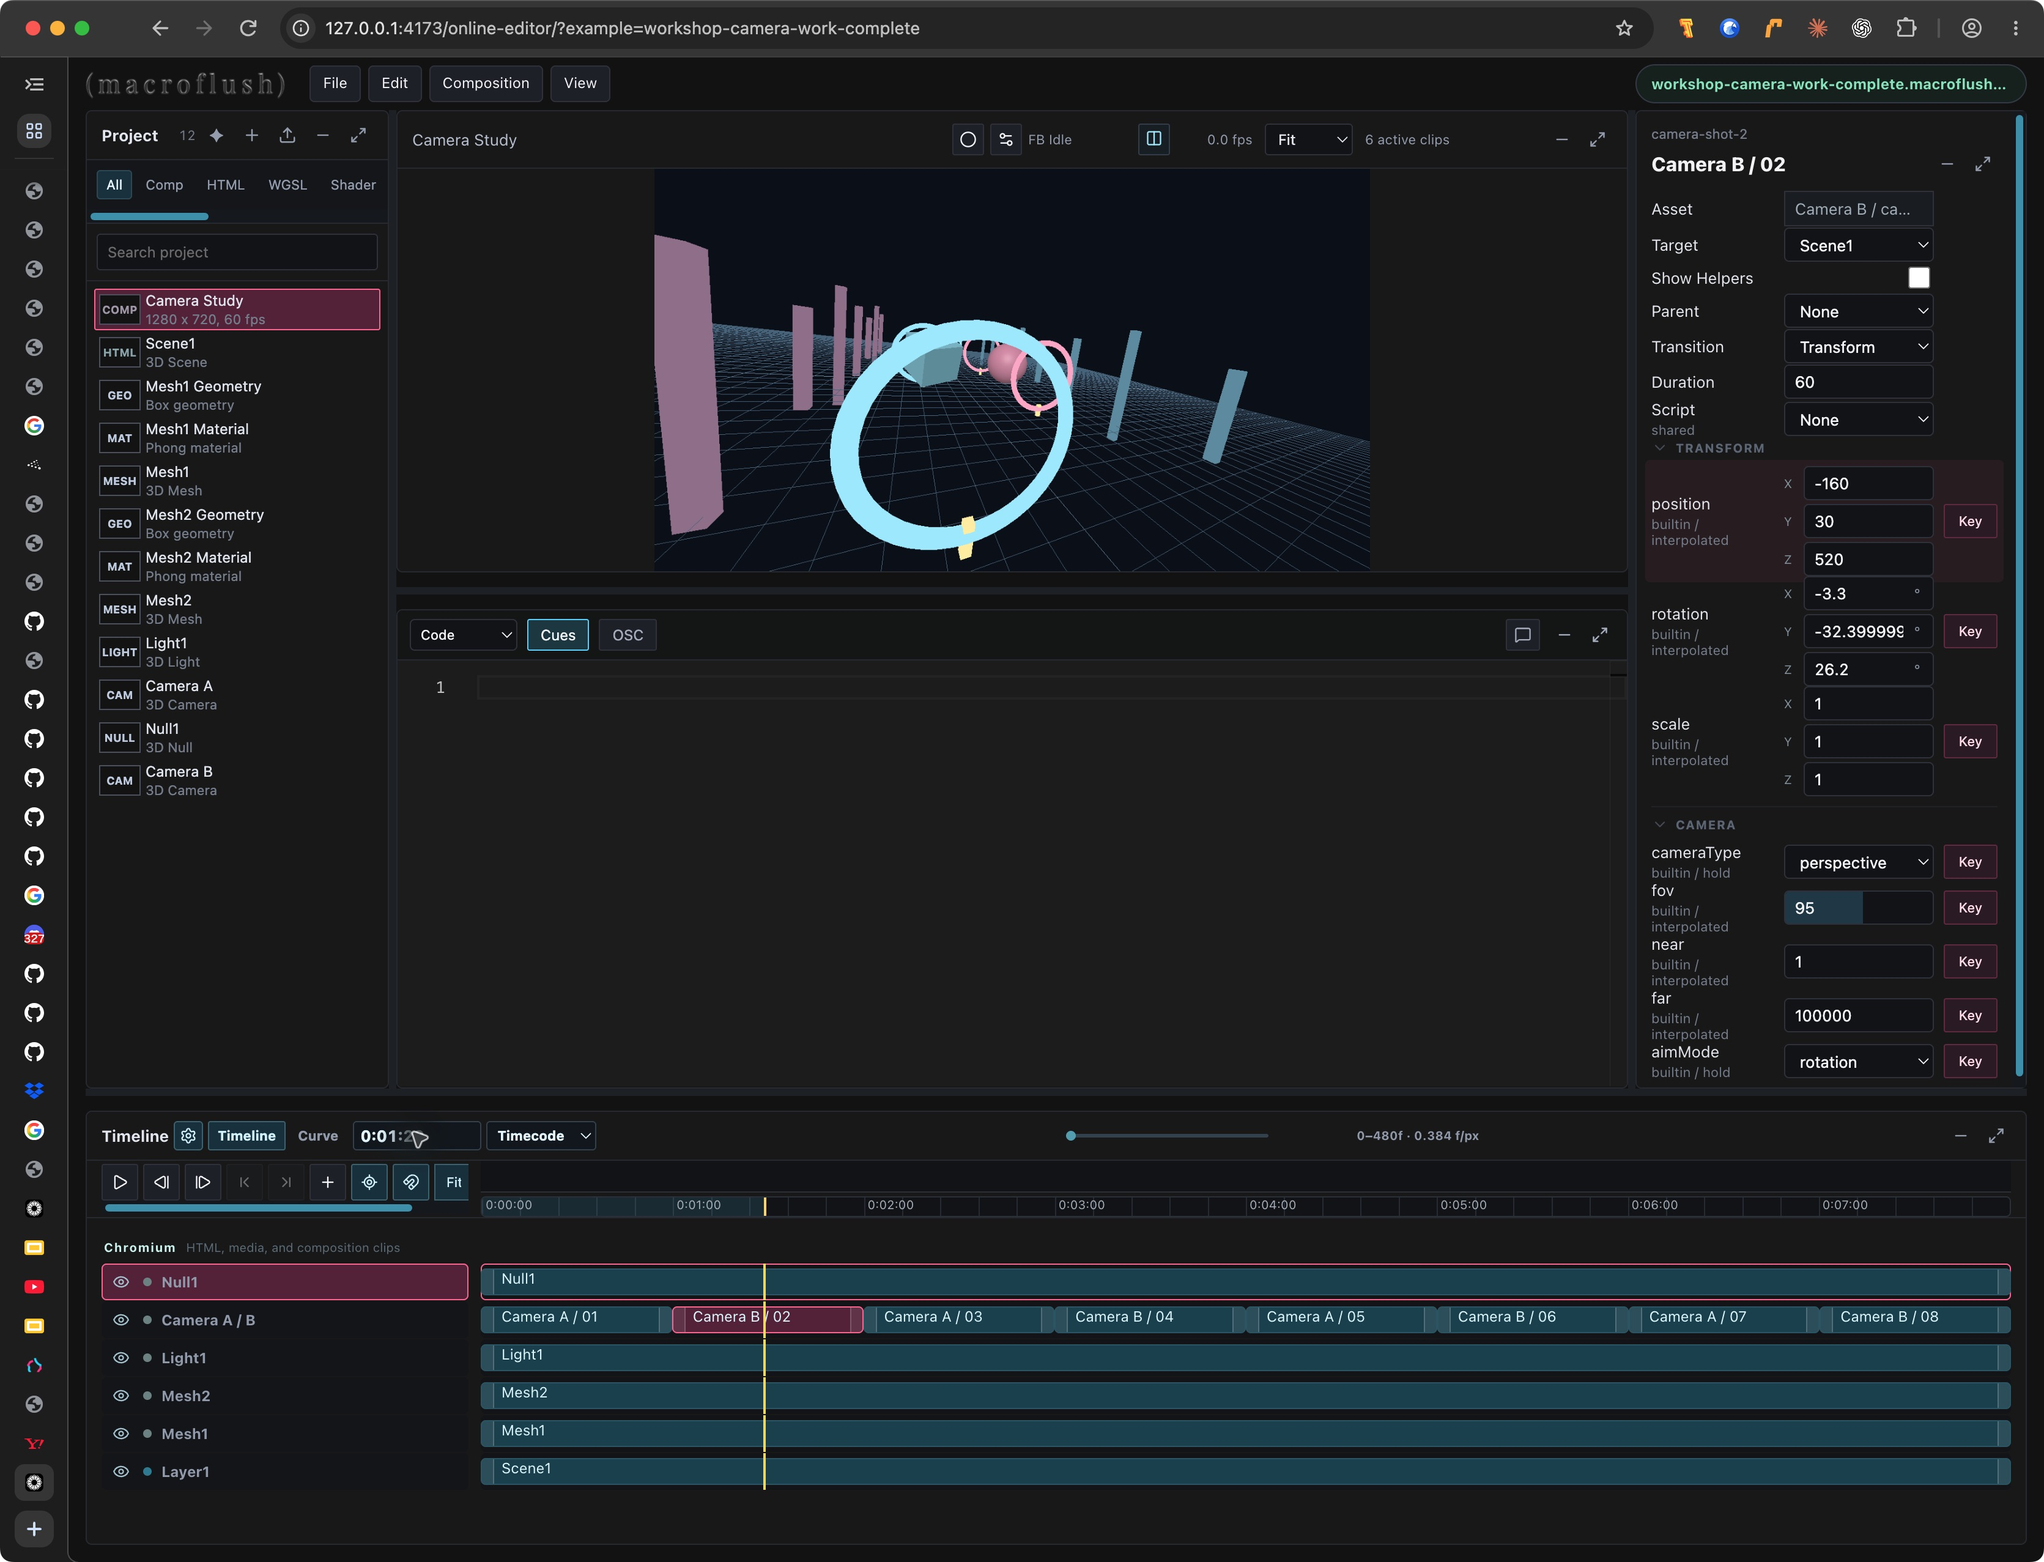
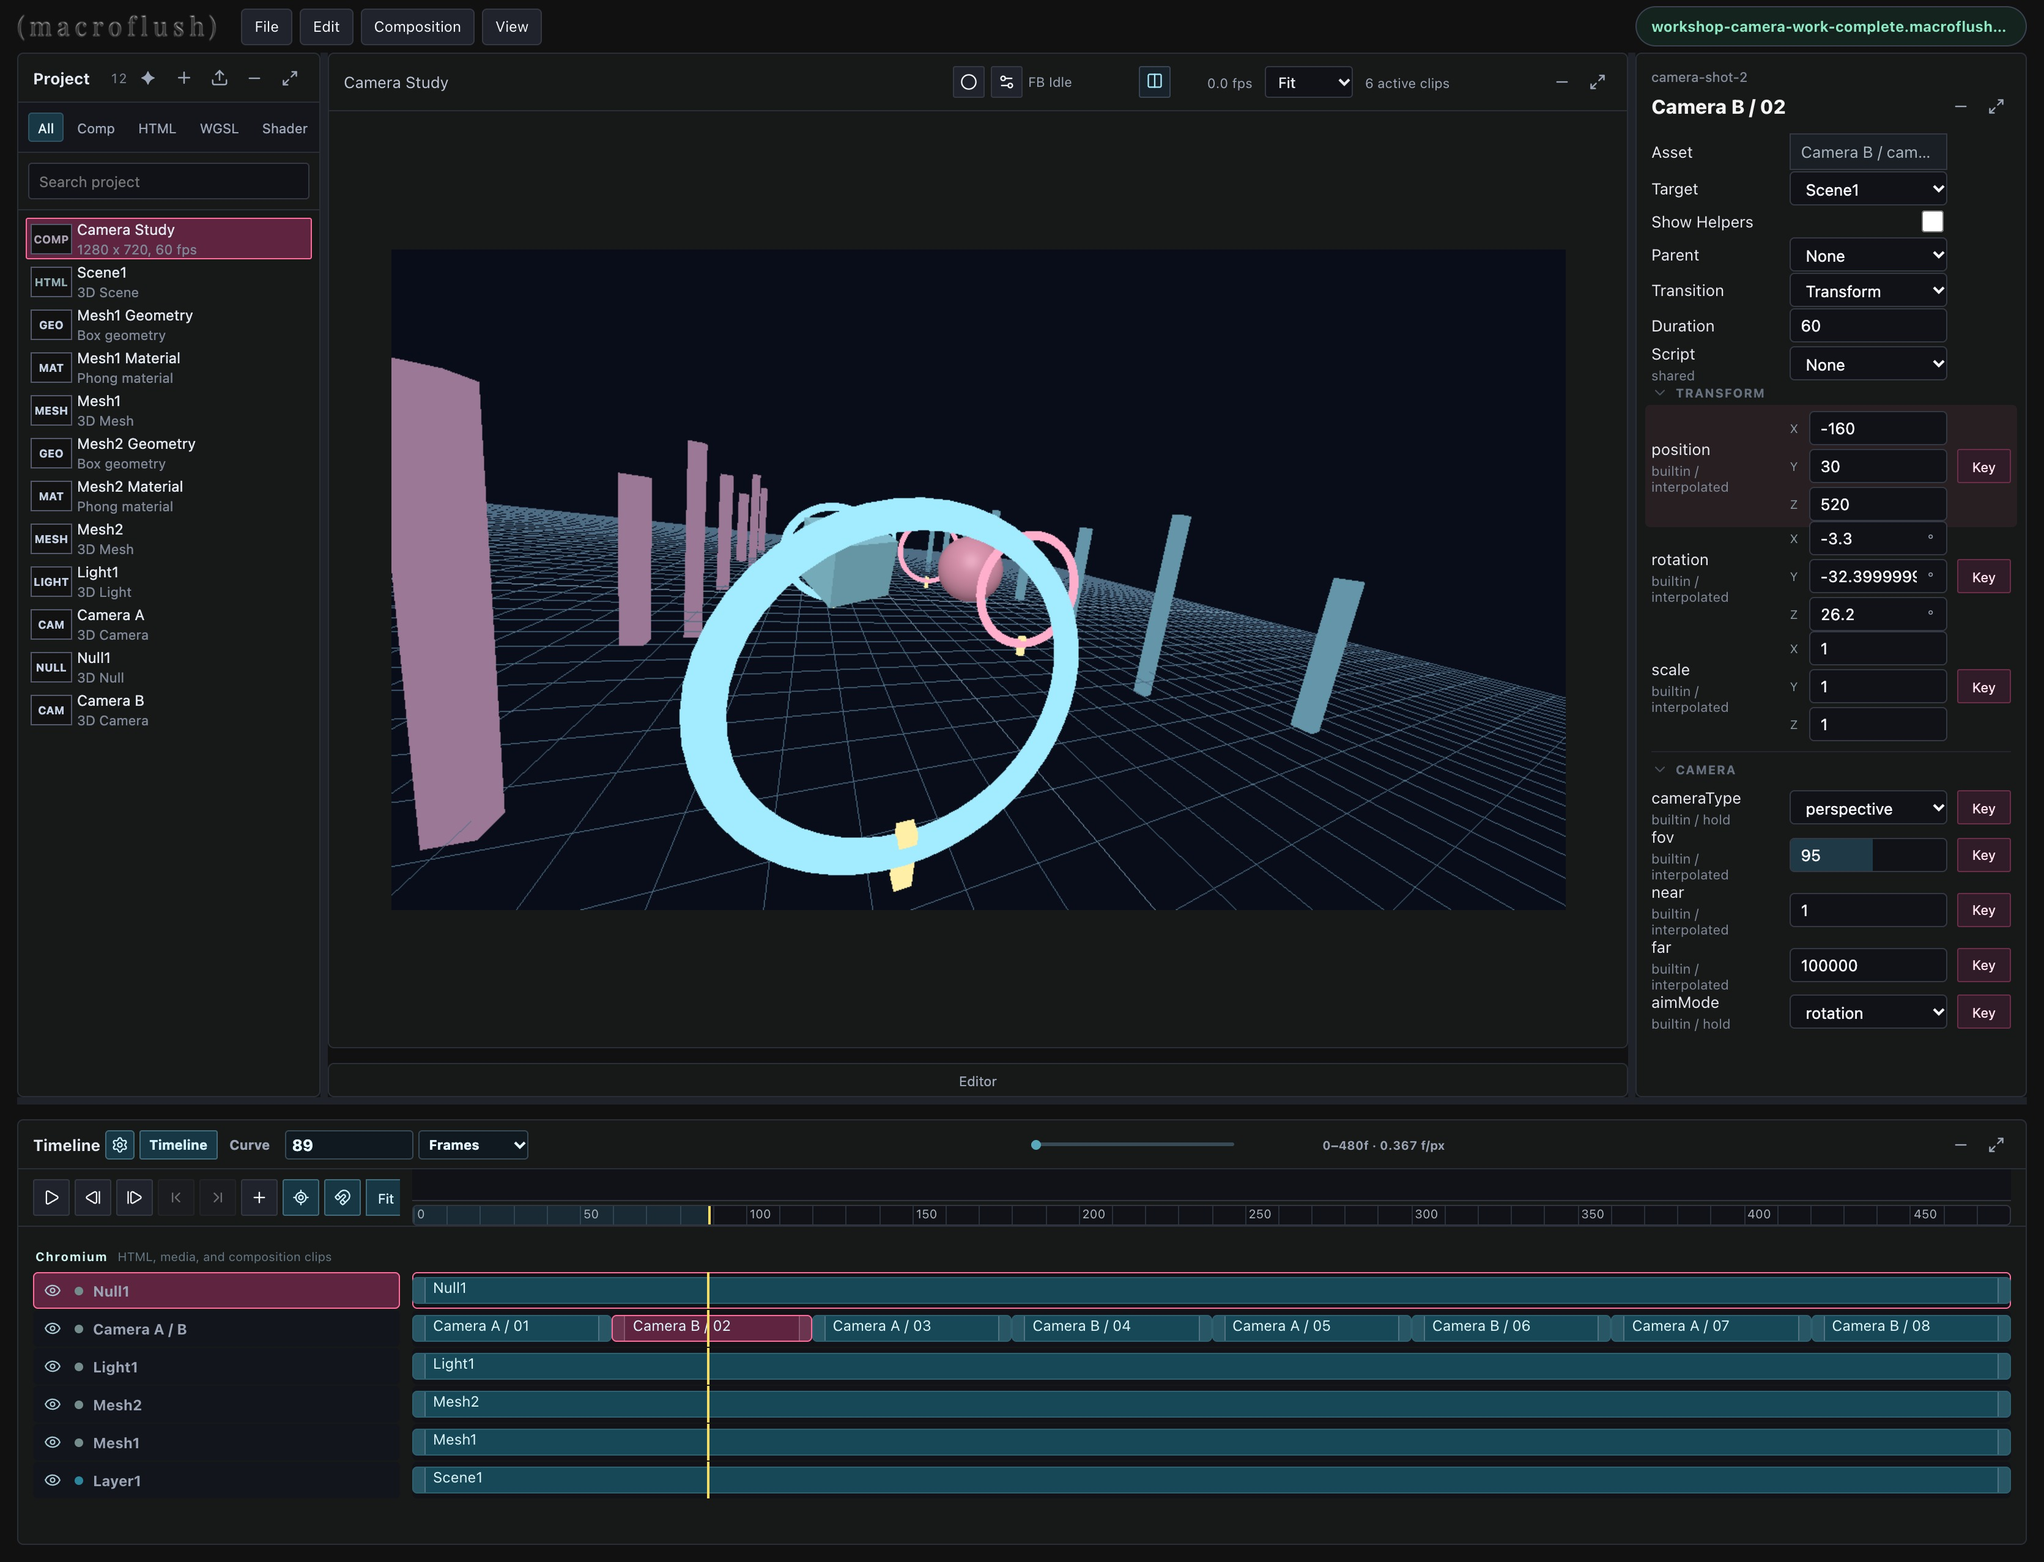
Add an orbiting-sphere ring to the product tutorial and refresh captures
- model-product: add an independent Orbit Ring Group with twelve spheres
  (XZ radius 165, Y 30 + sin(offset * 4 + orbitAngle) * 45) that rotates
  at twice the bottle's speed; add a Three.js product-orbit check.
- seamless-loop: rework the loop around 24 particles whose rotation,
  pulse and size join in four seconds.
- Recapture the model-product and camera-work Editor images (3342 x 2554)
  and update their READMEs, ADVANCED.md, generators and AGENTS.md.

diff --git a/src/advanced-projects.js b/src/advanced-projects.js
@@ -3,9 +3,9 @@ export const advancedCatalog = [
   ["timeline-mask", "Alpha Window", "マスクで映像を切り抜く", "Reveal visuals through a mask", "隠したMatteのアルファで動く映像を切り抜く。", "Use a hidden Matte's alpha to crop moving visuals."],
   ["cue-performance", "Cue Stage", "Cueで切り替えるライブ映像をつくる", "Build a live performance with Cues", "Intro・Loop・OutroをCueで切り替える。", "Switch Intro, Loop and Outro with Cues."],
   ["stem-reactive", "Stem Ensemble", "ドラム・ベース・ボーカルを別々に動かす", "Animate drums, bass and vocals separately", "オリジナルの練習用4ステムを別の形へ割り当てる。", "Map four original practice stems to different shapes."],
-  ["seamless-loop", "Perfect Orbit", "継ぎ目のないループを設計する", "Design a seamless loop", "整数周期と位相で4秒のループをつなぐ。", "Join a four-second loop with integer cycles and phase."],
+  ["seamless-loop", "Perfect Orbit", "継ぎ目のないループを設計する", "Design a seamless loop", "24個の粒の回転・膨らみ・大きさを4秒でつなぐ。", "Join rotating, pulsing particles and their size in four seconds."],
   ["shader-stack", "Layered Look", "Shaderを重ねてルックをつくる", "Build a look by stacking Shaders", "Blur・色収差・色調整をEffect layerで順につなぐ。", "Chain blur, chromatic separation and grading with Effect layers."],
-  ["model-product", "Product Studio", "GLBモデルの商品紹介映像をつくる", "Make a product film from a GLB model", "オリジナルのボトルGLBを照明・回転・タイトルで見せる。", "Present an original bottle GLB with lighting, rotation and type."],
+  ["model-product", "Product Studio", "GLBモデルの商品紹介映像をつくる", "Make a product film from a GLB model", "ボトルと、2倍速で回転しSINで上下する12個の球体を見せる。", "Present a bottle with twelve spheres orbiting at twice its speed and moving in a sine wave."],
   ["seeded-motion", "Repeatable Field", "同じランダム模様をシークでも再現する", "Make random motion repeatable on seek", "seedと現在時刻から粒の配置を決め直す。", "Recalculate particles from a seed and current time."],
   ["alpha-logo", "Clear Mark", "透明背景のロゴアニメーションを書き出す", "Export a logo animation with transparency", "背景なしのオリジナルマークをPNGやProResへ出力する。", "Export an original transparent mark to PNG or ProRes."],
   ["embed-player", "Web Player", "作品を自分のWebページへ埋め込む", "Embed your work in a web page", "Playerとホストの時計で再生・停止・シークをつくる。", "Build playback, pause and seek with Player and a host clock."]

diff --git a/src/advanced-code.js b/src/advanced-code.js
@@ -117,10 +117,11 @@ onFrame(({ time }) => {
   for (let i = 0; i < 24; i++) {
     const offset = i / 24 * PI * 2;
     const angle = phase + offset;
-    const radius = 170 + 50 * sin(phase * 2 + offset);
-    col(["#5dd4ff", "#ff6c9a", "#ffdc63"][i % 3]);
+    const factor = pow(map(sin(phase * 2 + offset * 1), -1, 1, 0, 1), 10);
+    const radius = 170 + 100 * abs(sin(phase * 2 + offset * 2)) * factor;
+    col(["#3399beff", "#e32f68ff", "#eae0baff"][i % 3]);
     fill();
-    oval(640 + cos(angle) * radius, 360 + sin(angle) * radius, 9);
+    oval(640 + cos(angle) * radius, 360 + sin(angle) * radius, 9 + radius / 15);
   }
 });`;
 
@@ -149,6 +150,8 @@ void main() {
 }`;
 
 export const productSceneCode = `const { scene, T } = clip.use("centi3d");
+const orbitRing = new T.Group();
+const orbiters = [];
 setup(() => {
   size(1280, 720);
   scene.background = new T.Color("#101622");
@@ -156,7 +159,31 @@ setup(() => {
   const ground = new T.Mesh(new T.CylinderGeometry(135, 150, 24, 64), new T.MeshStandardMaterial({ color: "#263447", roughness: 0.55 }));
   ground.position.y = -110;
   scene.add(ground);
+  orbitRing.name = "Orbit Ring";
+  scene.add(orbitRing);
+  const geometry = new T.SphereGeometry(15, 24, 16);
+  const materials = ["#070ed8", "#ca186e", "#86d624"].map(color =>
+    new T.MeshStandardMaterial({ color, metalness: 0.25, roughness: 0.3 }));
+  for (let i = 0; i < 12; i++) {
+    const offset = i / 12 * PI * 2;
+    const sphere = new T.Mesh(geometry, materials[i % 3]);
+    sphere.name = "Orbit Sphere " + (i + 1);
+    sphere.position.set(cos(offset) * 165, 30 + sin(offset * 4) * 45, sin(offset) * 165);
+    orbitRing.add(sphere);
+    orbiters.push({ sphere, offset });
+  }
+});
+onFrame(({ frame }) => {
+  const bottleAngle = frame / 359 * PI * 2;
+  const orbitAngle = bottleAngle * 2;
+  orbitRing.rotation.y = orbitAngle;
+  for (const { sphere, offset } of orbiters) {
+    sphere.position.y = 30 + sin(offset * 4 + orbitAngle) * 45;
+  }
 });`;
+export const productSceneStarterCode = productSceneCode.replace(
+  "const bottleAngle = frame / 359 * PI * 2;", "const bottleAngle = 0;"
+);
 export const productTitleCode = `clip.use("centi");
 setup(() => {
   size(1280, 720);

diff --git a/projects/tutorials/ADVANCED.md b/projects/tutorials/ADVANCED.md
@@ -8,9 +8,9 @@ Ten site-authored bilingual tutorials with twenty portable V2 projects. IDs and 
 | timeline-mask | Unmasked Prism → Prism masked by hidden transparent text/circle Matte with radius keys |
 | cue-performance | Three visual sections, no Cues → Intro none / Loop loop / Outro stop |
 | stem-reactive | Synthetic mix only → four attached original synthesized parts, read by audioStem |
-| seamless-loop | A 3.3-second period cut to four seconds → a four-second period and integer harmonics |
+| seamless-loop | The same 24-particle orbit, mapped sine raised to power 10, abs-sine radial pulse, radius-linked particle size and three-color palette: 3.3-second phase period → four-second phase period |
 | shader-stack | Prism alone → Blur / Chromatic / Grade, three Layers Below Effect layers |
-| model-product | Original static Bottle GLB and studio → Null turntable, rim light and transparent Canvas title |
+| model-product | Original static Bottle GLB, studio and a static twelve-sphere ring → Null bottle turntable, independent 2× ring rotation with four sine height cycles around the circumference / one per revolution, rim light and transparent Canvas title |
 | seeded-motion | Per-frame Math.random flicker → stateless indexed numeric hash and time-derived motion |
 | alpha-logo | Static opaque-background arcs → transparent reveal keys with a readable hold |
 | embed-player | Artwork with fixed hue / single-frame HTML host → hue keys / interactive host and portable web kit |
@@ -22,6 +22,7 @@ Regenerate only this set with `node scripts/generate-advanced-tutorials.mjs`, or
 ## Original practice material
 
 - `stem-reactive/drums.wav`, `bass.wav`, `other.wav`, `vocals.wav`, `mix.wav`: deterministic eight-second mono PCM 16-bit / 22050 Hz synthesis. Vocals is a synthetic voice-like harmonic tone, not a person. Each component is synthesized separately; the mix combines them. They are **not** HT-Demucs output and do not demonstrate model quality. The completed JSON embeds all four; the starter embeds only the mix. `practice-stems.zip` preserves these exact five WAV files. Attach only the four named parts.
+- The twelve spheres in `model-product` are Scene1 Three.js meshes, not modifications to the bottle GLB. Their independent `Orbit Ring` Group shares one SphereGeometry and three Materials. Local XZ radius is 165; Y is `30 + sin(offset * 4 + orbitAngle) * 45`. The starter holds `bottleAngle` at 0. Completion uses `frame / 359 * 2π`, matching the Null’s 0→359-frame rotation keys, and `orbitAngle = bottleAngle * 2`. Each revolution gives one vertical cycle; the circumference spans four sine cycles. The palette is #070ed8 / #ca186e / #86d624, and setup uses sin(offset * 4) for matching initial heights. The ring is outside the bottle Null hierarchy. Changing that key endpoint requires updating the code denominator.
 - `model-product/bottle.glb`: original lathed geometry and a contrasting front badge with two PBR materials, generated by `scripts/tutorial-model.mjs`. Static glTF 2.0, embedded buffers, no external textures, required extensions, animations, skins or morphs. The same bytes are embedded in both project JSONs.
 - `alpha-logo`: original tutorial arcs, not a replacement or derivative of the MacroFlush logo.
 

diff --git a/AGENTS.md b/AGENTS.md
@@ -104,6 +104,8 @@ UI変更の確認では、デスクトップと狭い画面、キーボード操
 
 追加10教材は `src/advanced-tutorials.js`（日英本文・関連Reference）、`src/advanced-code.js`（共有コード）、`src/advanced-projects.js`（カタログ）で管理します。生成は `node scripts/generate-advanced-tutorials.mjs`、slug指定でそのペアだけ再生成できます。`projects/tutorials/ADVANCED.md` に来歴と開始／完成差分があります。ステムのvocalsは合成音、WAVはモデル分離結果ではありません。GLBもオリジナル生成物です。本文のステップに `environments` を指定すると、その操作専用のバッヂが出ます。ステム分離とProResのみの手順はアプリ版専用を保ってください。
 
+GLB商品紹介教材のScene1は `productSceneCode` / `productSceneStarterCode` です。BottleのGLBは変更せず、独立したOrbit Ring Groupに球体12個をXZ半径165で並べ、Yを `30 + sin(offset * 4 + orbitAngle) * 45` にします。円周上で4周期、各球はグループ1回転につき上下1周期です。色は `#070ed8` / `#ca186e` / `#86d624`。setupの初期Yも `sin(offset * 4)` に揃えます。BottleのNullキー0〜359でY 0〜360°に対し、球体は `orbitAngle = frame / 359 * 2π * 2` で720°。Nullの子にして回転を加算しないでください。開始用は両方静止、完成版は両方動きます。Geometry 1個・Material 3個はsetupで共有します。終点を変更する場合はNullキーとコードの359を揃え、日英の手順と同梱Three.jsによる `check-tutorial-code.mjs` の検証も更新してください。
+
 Web埋め込み教材の実ホストは `src/tutorial-player-host.js`、ビルドは `scripts/build-tutorial-kit.mjs` です。`dist/projects/tutorials/embed-player/` に開始／完成HTMLとPlayer一式・ZIPを生成し、生成物はコミットしません。ZIPのPlayerを単独JSに減らさず、依存リソースとライセンスを保持します。時計・progress・Pause/Seek/Reset・非表示タブでの停止・破棄は実ブラウザで確認してください。`npm run check` は `scripts/check-tutorial-kit.mjs` も実行します。
 
 教材コードの性能確認は `scripts/check-tutorial-code.mjs` で、Feedback参照の再利用・名前変更・シーク・軌跡の読み取り回数、文字幅の再計測を検証します。文字幅は固定のsans-serifフォントでtitle変更時だけ計算し、revealのアニメーションは毎フレーム反映します。外部フォントやフォント設定を追加する際は、その変更・読み込み完了時にもレイアウトキャッシュを無効化してください。

diff --git a/assets/tutorials/camera-work/README.md b/assets/tutorials/camera-work/README.md
@@ -1,3 +1,19 @@
 # Camera Transform screenshot
 
-`01-transform.jpg` is an unmodified capture of the actual bundled browser Editor in Chrome, 3342 × 2554, on 2026-11-14. The completed `workshop-camera-work-complete` project was opened through the site launcher. Camera B / 02 is selected; Inspector shows Target Scene1, Parent None, Transition Transform, Duration 60 and Aim Mode Rotation. Timeline position is 0:01:29 (frame 89 at 60 fps), halfway through the first transition. The eight sequential A/B placements are visible. This is not a fabricated interface or a native-app capture.
+`01-transform.jpg` is an unmodified page-content capture of the actual bundled
+browser Editor in Google Chrome through Playwright, recaptured on 2026-11-17.
+It is 3342 × 2554 pixels (1671 × 1277 CSS viewport, device scale factor 2).
+The capture contains only the Editor: no browser tab bar, address bar, browser
+sidebar, or desktop chrome is included.
+
+The completed `workshop-camera-work-complete` project was opened through the
+site launcher. Camera B / 02 is selected; Inspector shows Target Scene1, Parent
+None, Transition Transform, Duration 60 and Aim Mode Rotation. Timeline position
+is frame 89 at 60 fps (0:01:29), halfway through the first transition. The eight
+sequential A/B placements are visible.
+
+The Code Editor is collapsed with its own Hide Editor button, and the Timeline
+divider is dragged upward to show all layers. Frame 89 is entered through the
+Timeline position field in Frames mode. The project-open notification is
+dismissed before capture. No project data, Editor distribution, DOM styling, or
+image content is altered. Both language editions share the same actual capture.

diff --git a/assets/tutorials/model-product/README.md b/assets/tutorials/model-product/README.md
@@ -1,10 +1,20 @@
 # GLB product tutorial screenshots
 
 Unmodified captures of the real bundled OnlineEditor, loaded through
-`/online-editor/?example=advanced-model-product-complete`. Captured on 2026-11-14
-in Chrome, 3342 × 2554 pixels. The bundled Editor and site-authored GLB are used.
+`/online-editor/?example=advanced-model-product-complete`. Recaptured on 2026-11-17
+in Google Chrome through Playwright, 3342 × 2554 pixels (1671 × 1277 CSS viewport,
+device scale factor 2). Page-content screenshots contain only the real Editor:
+no browser tab bar, address bar, browser sidebar, or desktop chrome is included.
+The bundled Editor and site-authored GLB are used with the current twelve-sphere
+Orbit Ring, four spatial sine cycles, and blue / magenta / green materials.
 
 - `01-target-parent.jpg`: frame 0; Bottle selected; Target Scene1, Parent Null1, Type Original.
 - `02-turntable.jpg`: frame 90; Null1 selected; interpolated rotation Y about 90.25 degrees; keys at 0 and 359.
+
+The Code Editor panel is collapsed through its own Hide Editor button. The
+Timeline divider is dragged upward to show every layer and both rotation keys.
+Frame 90 is selected through the Timeline position field in Frames mode; Target,
+Parent and rotation are checked in the real Inspector before capture. No Editor
+distribution, project data, DOM styling, or image content was altered for capture.
 
 Both language editions use the same actual Editor captures with localized captions.
